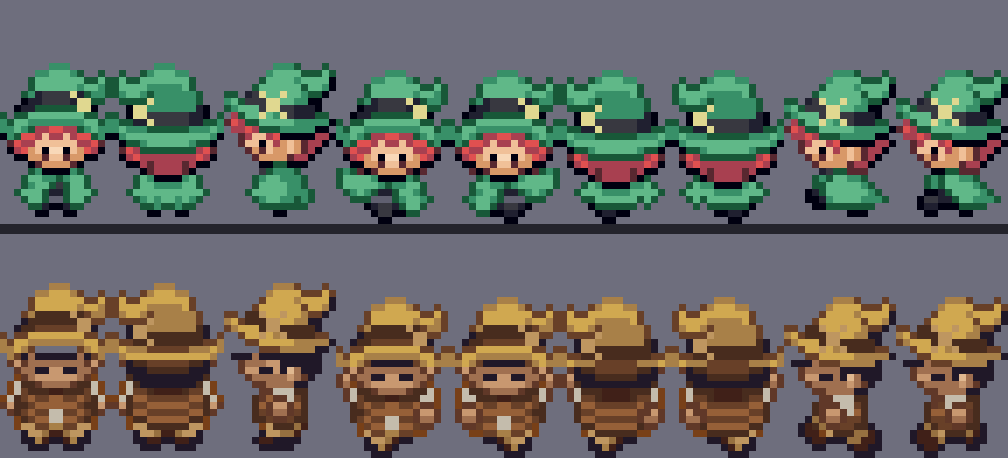
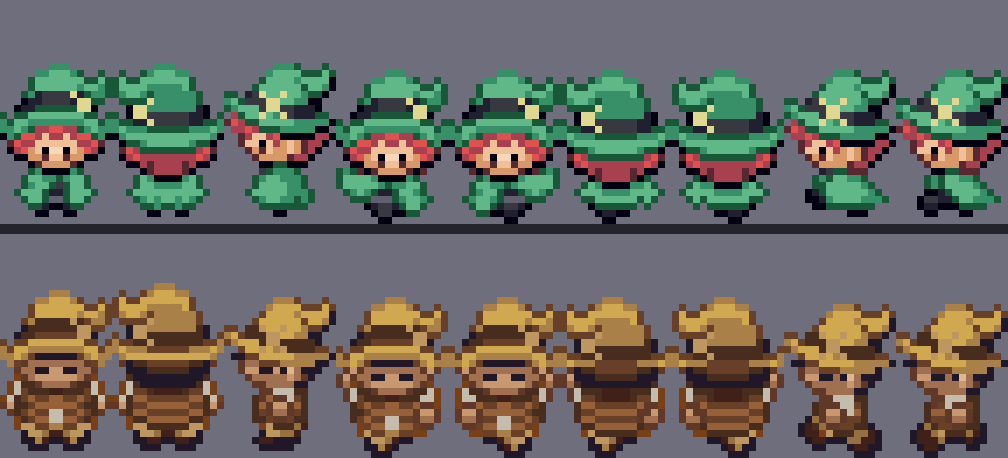
Fisher walker: no gap under the brim
Claude-Session: https://claude.ai/code/session_01FHXnfqnedTHLf5QFbB3MCU

Changed region(s): [[0.7688, 0.6419, 1.0, 0.8253], [0.2153, 0.6114, 0.3383, 0.8253], [0.0, 0.6114, 0.123, 0.7948]]

diff --git a/tools/npc/walkers/seafolk.py b/tools/npc/walkers/seafolk.py
@@ -128,8 +128,10 @@ def witch_hat(sub, f, brim):
     near[1:] |= hat[:-1]; near[:-1] |= hat[1:]; near[:, 1:] |= hat[:, :-1]; near[:, :-1] |= hat[:, 1:]
     edge = np.isin(w87, (4, 15)) & near
     edge[19:] = False
-    rows = [y for y in range(32) if hat[y].sum() >= 8]
-    b87 = max(y for y in rows if y <= 18)                  # its brim's main row
+    # its brim's last full-width row (the row below, where the brim's tips droop past the face, has hair in the
+    # middle: set on that one, the cleared cap left a gap under the brim; user 2026-11-26 "a weird gap here")
+    rows = [y for y in range(32) if hat[y].sum() >= 13]
+    b87 = max(y for y in rows if y <= 18)
     dy = brim - b87
     for y in range(32):
         ty = y + dy

diff --git a/docs/chapter1_workflow.md b/docs/chapter1_workflow.md
@@ -366,4 +366,6 @@ Once the next few phases of Chapter 1 are further along, the user wants **anothe
   Its hat is lifted frame for frame (its 12-frame order onto Emerald's 9: 0, 1, 2, 4, 5, 6, 7, 8, 9) onto the
   Fisher's head, its brim on his cap line; greens to tan felt, the band dark leather, the buckle tan, outlines kept
   (`seafolk.witch_hat`; `assets/npc_survey/fisher_walker_hat_v4.png`, MonoMyth's witch above for comparison).
+  The brim set on the hat's last full-width row (it had been set on the row below, where the brim's tips droop past
+  the face with hair between them, and the cleared cap left a gap under the brim: user "you got a weird gap here").
   `assets/npc_survey/fisher_walker_hat_v3.png`.
